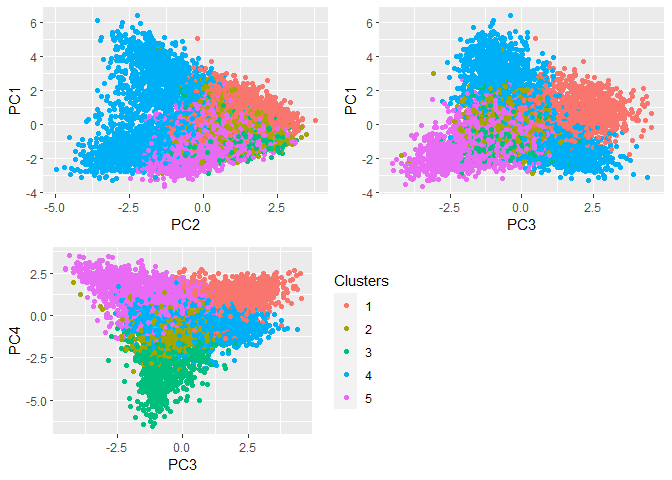
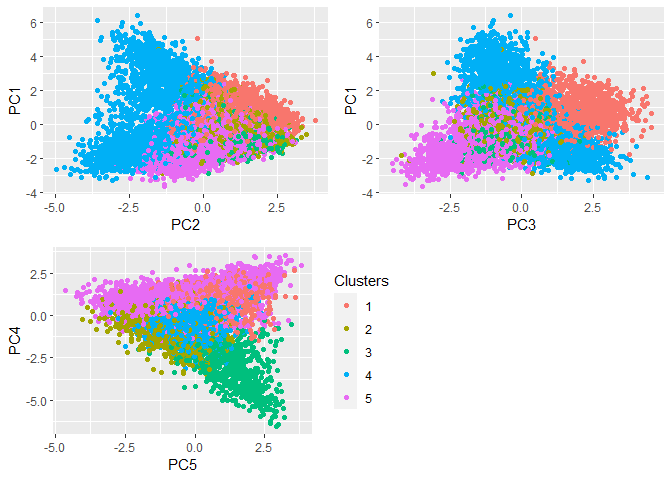
q2 update

diff --git a/Homework-4/PS4.md b/Homework-4/PS4.md
@@ -45,16 +45,18 @@ categories for each cluster.
 
 ![](PS4_files/figure-markdown_strict/unnamed-chunk-5-1.png)
 
-<table>
+<table style="width:100%;">
 <colgroup>
-<col style="width: 12%" />
-<col style="width: 12%" />
-<col style="width: 12%" />
-<col style="width: 12%" />
-<col style="width: 12%" />
-<col style="width: 12%" />
-<col style="width: 12%" />
-<col style="width: 12%" />
+<col style="width: 10%" />
+<col style="width: 10%" />
+<col style="width: 10%" />
+<col style="width: 10%" />
+<col style="width: 10%" />
+<col style="width: 10%" />
+<col style="width: 10%" />
+<col style="width: 10%" />
+<col style="width: 10%" />
+<col style="width: 10%" />
 </colgroup>
 <thead>
 <tr class="header">
@@ -66,6 +68,8 @@ categories for each cluster.
 <th style="text-align: center;">Loadings PC3</th>
 <th>Category</th>
 <th style="text-align: center;">Loadings PC4</th>
+<th>Category</th>
+<th style="text-align: center;">Loadings PC5</th>
 </tr>
 </thead>
 <tbody>
@@ -78,6 +82,8 @@ categories for each cluster.
 <td style="text-align: center;">0.357194859</td>
 <td>fashion</td>
 <td style="text-align: center;">0.2486018310</td>
+<td>fashion</td>
+<td style="text-align: center;">0.286886643</td>
 </tr>
 <tr class="even">
 <td>religion</td>
@@ -88,6 +94,8 @@ categories for each cluster.
 <td style="text-align: center;">0.329012235</td>
 <td>beauty</td>
 <td style="text-align: center;">0.2366545788</td>
+<td>cooking</td>
+<td style="text-align: center;">0.27238276</td>
 </tr>
 <tr class="odd">
 <td>parenting</td>
@@ -98,6 +106,8 @@ categories for each cluster.
 <td style="text-align: center;">0.278810631</td>
 <td>cooking</td>
 <td style="text-align: center;">0.2320392878</td>
+<td>beauty</td>
+<td style="text-align: center;">0.261100664</td>
 </tr>
 <tr class="even">
 <td>food</td>
@@ -108,6 +118,8 @@ categories for each cluster.
 <td style="text-align: center;">0.265768747</td>
 <td>politics</td>
 <td style="text-align: center;">0.2253890276</td>
+<td>news</td>
+<td style="text-align: center;">0.252758649</td>
 </tr>
 <tr class="odd">
 <td>school</td>
@@ -118,8 +130,12 @@ categories for each cluster.
 <td style="text-align: center;">0.264414042</td>
 <td>photo_sharing</td>
 <td style="text-align: center;">0.1936194074</td>
+<td>online_gaming</td>
+<td style="text-align: center;">0.246631776</td>
 </tr>
 <tr class="even">
+<td>.</td>
+<td style="text-align: center;">.</td>
 <td>.</td>
 <td style="text-align: center;">.</td>
 <td>.</td>
@@ -138,6 +154,8 @@ categories for each cluster.
 <td style="text-align: center;">-0.155270893</td>
 <td>food</td>
 <td style="text-align: center;">-0.1071448600</td>
+<td>crafts</td>
+<td style="text-align: center;">-0.150803291</td>
 </tr>
 <tr class="even">
 <td>fashion</td>
@@ -148,6 +166,8 @@ categories for each cluster.
 <td style="text-align: center;">-0.224246899</td>
 <td>tv_film</td>
 <td style="text-align: center;">-0.151685085</td>
+<td>eco</td>
+<td style="text-align: center;">-0.219445309</td>
 </tr>
 <tr class="odd">
 <td>personal_fitness</td>
@@ -158,6 +178,8 @@ categories for each cluster.
 <td style="text-align: center;">-0.243277175</td>
 <td>sports_playing</td>
 <td style="text-align: center;">-0.2903722124</td>
+<td>current_events</td>
+<td style="text-align: center;">-0.262704701</td>
 </tr>
 <tr class="even">
 <td>health_nutrition</td>
@@ -168,6 +190,8 @@ categories for each cluster.
 <td style="text-align: center;">-0.321209763</td>
 <td>online_gaming</td>
 <td style="text-align: center;">-0.4735595614</td>
+<td>photo_sharing</td>
+<td style="text-align: center;">-0.308125501</td>
 </tr>
 <tr class="odd">
 <td>cooking</td>
@@ -178,6 +202,8 @@ categories for each cluster.
 <td style="text-align: center;">-0.339373781</td>
 <td>college_uni</td>
 <td style="text-align: center;">-0.4931870468</td>
+<td>shopping</td>
+<td style="text-align: center;">-0.394375778</td>
 </tr>
 </tbody>
 </table>
@@ -194,8 +220,8 @@ problems.
 
 The second cluster is associated with positive values of PC2 and
 negative values of PC5. In this cluster, the important categories are
-politics, travel, college\_uni, tv\_film, current\_events,
-news,cshopping, photo\_sharing and eco. It is similar to the firs group
+politics, travel, college\_uni, tv\_film, current\_events, news,
+shopping, photo\_sharing and eco. It is similar to the firs group
 (college students and interested in politics and current events), but
 they are probably also interested in spending their free time shopping,
 creating social media content instead of doing physical activities.
